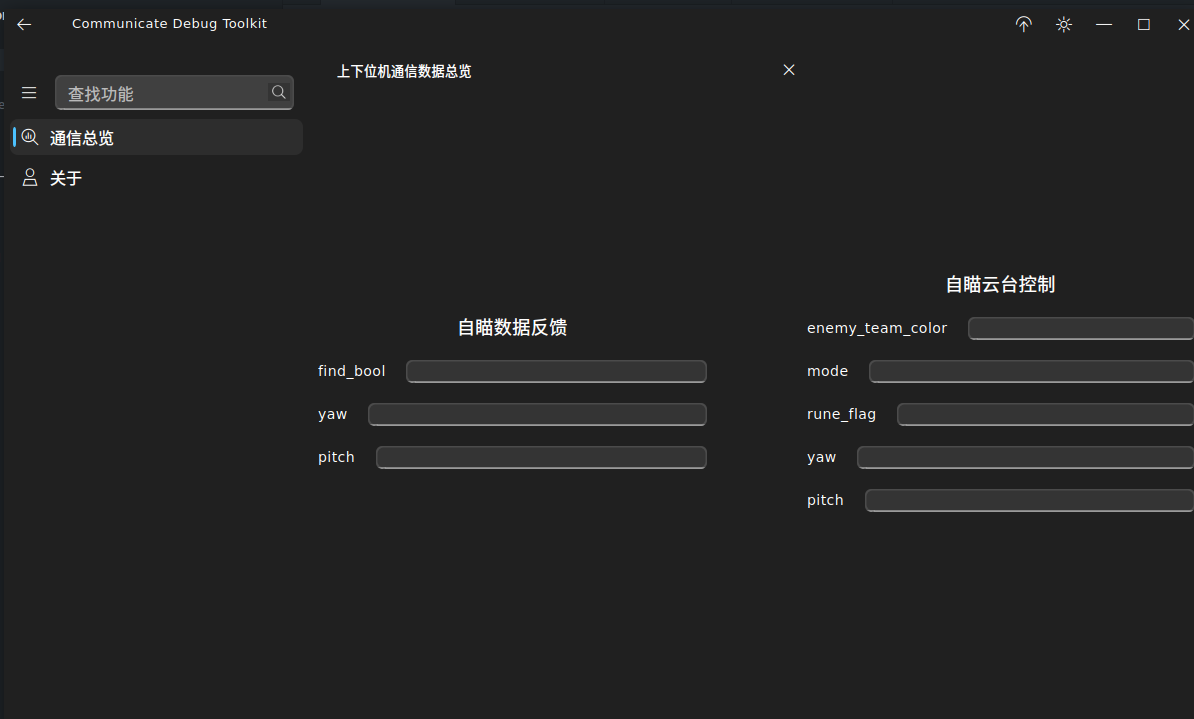
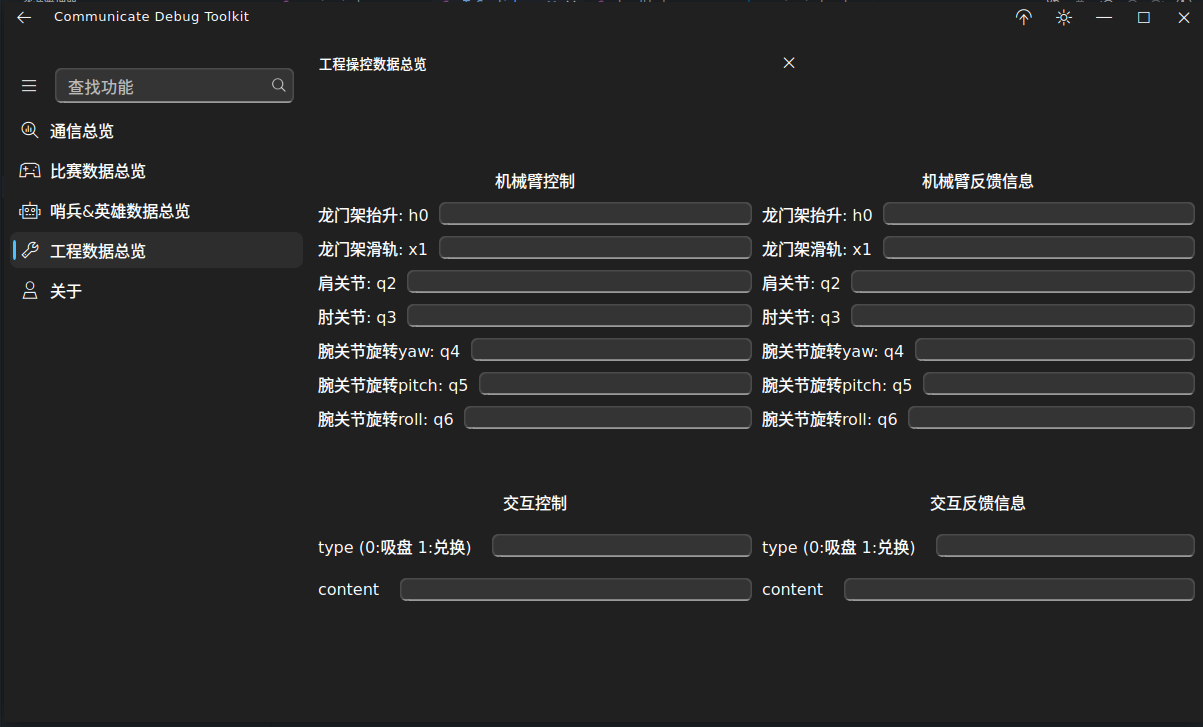
🍻 完成烧饼&英雄前端制作

diff --git a/visualization_tool/Page/T_Sential.cpp b/visualization_tool/Page/T_Sential.cpp
@@ -3,6 +3,9 @@
 
 #include "T_Sential.h"
 #include "health_bar.h"
+#include <ElaText.h>
+#include <QHBoxLayout>
+#include <QVBoxLayout>
 T_Sential::T_Sential(QWidget* parent)
     : ElaWidget(parent)
 {
@@ -11,10 +14,156 @@ T_Sential::T_Sential(QWidget* parent)
     setWindowModality(Qt::ApplicationModal);
     setWindowButtonFlags(ElaAppBarType::CloseButtonHint);
 
+    QFont font;
+    font.setPointSize(12);
+    setFont(font);
     
+    //TODO:　底盘数据
+    ElaText* Chassis_vx_text = new ElaText("底盘x轴速度",this);
+    ElaText* Chassis_vy_text = new ElaText("底盘y轴速度",this);
+    Chassis_vx_text->setFont(font);
+    Chassis_vy_text->setFont(font);
+    Chassis_vx_editor = new ElaLineEdit(this);
+    Chassis_vy_editor = new ElaLineEdit(this);
+
+    QHBoxLayout* Chassis_vx_layout = new QHBoxLayout;
+    QHBoxLayout* Chassis_vy_layout = new QHBoxLayout;
+    QVBoxLayout* Chassis_layout = new QVBoxLayout;
+    Chassis_vx_layout->addWidget(Chassis_vx_text);
+    Chassis_vx_layout->addWidget(Chassis_vx_editor);
+    Chassis_vy_layout->addWidget(Chassis_vy_text);
+    Chassis_vy_layout->addWidget(Chassis_vy_editor);
+    Chassis_layout->addLayout(Chassis_vx_layout);
+    Chassis_layout->addLayout(Chassis_vy_layout);
     
+    //TODO: 交互数据
+    ElaText* Interaction_type_text = new ElaText("交互类型(0:无 1:买活 2:买弹丸)",this); 
+    ElaText* Interaction_content_text = new ElaText("具体内容",this);
+    Interaction_type_text->setFont(font);
+    Interaction_content_text->setFont(font);
+    Interaction_type_editor = new ElaLineEdit(this);
+    Interaction_content_editor = new ElaLineEdit(this);
+
+    QHBoxLayout* Interaction_type_layout = new QHBoxLayout;
+    QHBoxLayout* Interaction_content_layout = new QHBoxLayout;
+    QVBoxLayout* Interaction_layout = new QVBoxLayout;
+    Interaction_type_layout->addWidget(Interaction_type_text);
+    Interaction_type_layout->addWidget(Interaction_type_editor);
+    Interaction_content_layout->addWidget(Interaction_content_text);
+    Interaction_content_layout->addWidget(Interaction_content_editor);
+    Interaction_layout->addLayout(Interaction_type_layout);
+    Interaction_layout->addLayout(Interaction_content_layout);
+
+    //TODO: 模块控制数据
+    ElaText* moudle_ctl_type_text = new ElaText("模块控制类型(0:无 1:小陀螺 2:云台单连发控)",this);
+    ElaText* moudle_ctl_content_text = new ElaText("具体内容",this);
+    moudle_ctl_type_text->setFont(font);
+    moudle_ctl_content_text->setFont(font);
+    moudle_ctl_type_editor = new ElaLineEdit(this);
+    moudle_ctl_content_editor = new ElaLineEdit(this);
+
+    QHBoxLayout* moudle_ctl_type_layout = new QHBoxLayout;
+    QHBoxLayout* moudle_ctl_content_layout = new QHBoxLayout;
+    QVBoxLayout* moudle_ctl_layout = new QVBoxLayout;
+    moudle_ctl_type_layout->addWidget(moudle_ctl_type_text);
+    moudle_ctl_type_layout->addWidget(moudle_ctl_type_editor);
+    moudle_ctl_content_layout->addWidget(moudle_ctl_content_text);
+    moudle_ctl_content_layout->addWidget(moudle_ctl_content_editor);
+    moudle_ctl_layout->addLayout(moudle_ctl_type_layout);
+    moudle_ctl_layout->addLayout(moudle_ctl_content_layout);
+
+    //TODO: 指令数据
+    ElaText* command_target_x_text = new ElaText("目标位置x",this);
+    ElaText* command_target_y_text = new ElaText("目标位置y",this);
+    ElaText* command_keyboard_text = new ElaText("键盘指令",this);
+    ElaText* command_robot_id_text = new ElaText("机器人ID",this);
+    command_target_x_text->setFont(font);
+    command_target_y_text->setFont(font);
+    command_keyboard_text->setFont(font);
+    command_robot_id_text->setFont(font);
+    command_target_x_editor = new ElaLineEdit(this);
+    command_target_y_editor = new ElaLineEdit(this);
+    command_keyboard_editor = new ElaLineEdit(this);
+    command_robot_id_editor = new ElaLineEdit(this);
+
+    QHBoxLayout* command_target_x_layout = new QHBoxLayout;
+    QHBoxLayout* command_target_y_layout = new QHBoxLayout;
+    QHBoxLayout* command_keyboard_layout = new QHBoxLayout;
+    QHBoxLayout* command_robot_id_layout = new QHBoxLayout;
+    QVBoxLayout* command_layout = new QVBoxLayout;
+    command_target_x_layout->addWidget(command_target_x_text);
+    command_target_x_layout->addWidget(command_target_x_editor);
+    command_target_y_layout->addWidget(command_target_y_text);
+    command_target_y_layout->addWidget(command_target_y_editor);
+    command_keyboard_layout->addWidget(command_keyboard_text);
+    command_keyboard_layout->addWidget(command_keyboard_editor);
+    command_robot_id_layout->addWidget(command_robot_id_text);
+    command_robot_id_layout->addWidget(command_robot_id_editor);
+    command_layout->addLayout(command_target_x_layout);
+    command_layout->addLayout(command_target_y_layout);
+    command_layout->addLayout(command_keyboard_layout);
+    command_layout->addLayout(command_robot_id_layout);
+
+    //TODO: 受击打数据
+    ElaText* hitted_text = new ElaText("受击打",this);
+    hitted_text->setFont(font);
+    hitted_editor = new ElaLineEdit(this);
+
+    QHBoxLayout* hitted_layout = new QHBoxLayout;
+    hitted_layout->addWidget(hitted_text);
+    hitted_layout->addWidget(hitted_editor);
 
 
+    //TODO: 发射数据
+    ElaText* shoot_status_17_text = new ElaText("17mm弹丸允许发弹量",this);
+    ElaText* shoot_status_42_text = new ElaText("42mm弹丸允许发弹量",this);
+    ElaText* shoot_status_heat_text = new ElaText("发射机构热量",this);
+    ElaText* shoot_frequency_text = new ElaText("弹丸射速(单位:Hz)",this);
+    shoot_status_17_text->setFont(font);
+    shoot_status_42_text->setFont(font);
+    shoot_status_heat_text->setFont(font);
+    shoot_frequency_text->setFont(font);
+    shoot_status_17_editor = new ElaLineEdit(this);
+    shoot_status_42_editor = new ElaLineEdit(this);
+    shoot_status_heat_editor = new ElaLineEdit(this);
+    shoot_frequency_editor = new ElaLineEdit(this);
+
+    QHBoxLayout* shoot_status_17_layout = new QHBoxLayout;
+    QHBoxLayout* shoot_status_42_layout = new QHBoxLayout;
+    QHBoxLayout* shoot_status_heat_layout = new QHBoxLayout;
+    QHBoxLayout* shoot_frequency_layout = new QHBoxLayout;
+    QVBoxLayout* shoot_layout = new QVBoxLayout;
+    shoot_status_17_layout->addWidget(shoot_status_17_text);
+    shoot_status_17_layout->addWidget(shoot_status_17_editor);
+    shoot_status_42_layout->addWidget(shoot_status_42_text);
+    shoot_status_42_layout->addWidget(shoot_status_42_editor);
+    shoot_status_heat_layout->addWidget(shoot_status_heat_text);
+    shoot_status_heat_layout->addWidget(shoot_status_heat_editor);
+    shoot_frequency_layout->addWidget(shoot_frequency_text);
+    shoot_frequency_layout->addWidget(shoot_frequency_editor);
+    shoot_layout->addLayout(shoot_status_17_layout);
+    shoot_layout->addLayout(shoot_status_42_layout);
+    shoot_layout->addLayout(shoot_status_heat_layout);
+    shoot_layout->addLayout(shoot_frequency_layout);
+
+
+
+
+    //TODO: 总布局
+    QHBoxLayout* total1_layout = new QHBoxLayout;
+    QHBoxLayout* total2_layout = new QHBoxLayout;
+    QHBoxLayout* total3_layout = new QHBoxLayout;
+    QVBoxLayout* total_layout = new QVBoxLayout;
+    total1_layout->addLayout(Chassis_layout);
+    total1_layout->addLayout(Interaction_layout);
+    total2_layout->addLayout(moudle_ctl_layout);
+    total2_layout->addLayout(command_layout);
+    total3_layout->addLayout(hitted_layout);
+    total3_layout->addLayout(shoot_layout);
+    total_layout->addLayout(total1_layout);
+    total_layout->addLayout(total2_layout);
+    total_layout->addLayout(total3_layout);
+    setLayout(total_layout);
 }
 
 T_Sential::~T_Sential(){

diff --git a/visualization_tool/Page/T_Game_info.cpp b/visualization_tool/Page/T_Game_info.cpp
@@ -85,19 +85,36 @@ T_Game_info::T_Game_info(QWidget* parent)
     Stage_remain_time_editor = new ElaLineEdit(this);
     remaining_gold_coin_editor = new ElaLineEdit(this);
 
+    enemy_color_editor->setReadOnly(true);
+    game_progress_editor->setReadOnly(true);
+    Stage_remain_time_editor->setReadOnly(true);
+    remaining_gold_coin_editor->setReadOnly(true);
+
     r1_robot_position_editor = new ElaLineEdit(this);
+    r1_robot_position_editor->setReadOnly(true);
     r2_robot_position_editor = new ElaLineEdit(this);
+    r2_robot_position_editor->setReadOnly(true);
     r3_robot_position_editor = new ElaLineEdit(this);
+    r3_robot_position_editor->setReadOnly(true);
     r4_robot_position_editor = new ElaLineEdit(this);
+    r4_robot_position_editor->setReadOnly(true);
     r5_robot_position_editor = new ElaLineEdit(this);
+    r5_robot_position_editor->setReadOnly(true);
     r7_robot_position_editor = new ElaLineEdit(this);
+    r7_robot_position_editor->setReadOnly(true);
 
     b1_robot_position_editor = new ElaLineEdit(this);
+    b1_robot_position_editor->setReadOnly(true);
     b2_robot_position_editor = new ElaLineEdit(this);
+    b2_robot_position_editor->setReadOnly(true);
     b3_robot_position_editor = new ElaLineEdit(this);
+    b3_robot_position_editor->setReadOnly(true);
     b4_robot_position_editor = new ElaLineEdit(this);
+    b4_robot_position_editor->setReadOnly(true);
     b5_robot_position_editor = new ElaLineEdit(this);
+    b5_robot_position_editor->setReadOnly(true);
     b7_robot_position_editor = new ElaLineEdit(this);
+    b7_robot_position_editor->setReadOnly(true);
     
 
     //TODO: 红方布局

diff --git a/visualization_tool/Page/T_Sential.h b/visualization_tool/Page/T_Sential.h
@@ -8,6 +8,27 @@ class T_Sential : public ElaWidget
 {
     Q_OBJECT
 public:
+    ElaLineEdit* Chassis_vx_editor;
+    ElaLineEdit* Chassis_vy_editor;
+
+    ElaLineEdit* Interaction_type_editor;
+    ElaLineEdit* Interaction_content_editor;
+
+    ElaLineEdit* moudle_ctl_type_editor;
+    ElaLineEdit* moudle_ctl_content_editor;
+
+    ElaLineEdit* command_target_x_editor;
+    ElaLineEdit* command_target_y_editor;
+    ElaLineEdit* command_keyboard_editor;
+    ElaLineEdit* command_robot_id_editor;
+
+    ElaLineEdit* hitted_editor;
+    
+    ElaLineEdit* shoot_status_17_editor;
+    ElaLineEdit* shoot_status_42_editor;
+    ElaLineEdit* shoot_status_heat_editor;
+    ElaLineEdit* shoot_frequency_editor;
+    
     explicit T_Sential(QWidget* parent = nullptr);
     ~T_Sential();
 

diff --git a/README.md b/README.md
@@ -1,4 +1,4 @@
-# Communicate_Toolkit
+# Communicate_Toolkit 
 为Robomaster25赛季模块Communicate_2025上下位机通信设计的基于QT的调试工具，帮助使用者快速勘误与定位问题
 ## 概览
 基于[ElaWidgetTool](https://github.com/Liniyous/ElaWidgetTools)与Qt5制作
@@ -18,10 +18,11 @@
 ### 编译
 
 1. 确保已安装 ROS 2 和 Qt 5。
-2. 克隆此项目：
+2. 克隆此项目与子模块：
 
     ```bash
     git clone https://github.com/SillyBeee/Communicate_Debug_Toolkit.git
+    git submodule update --init --recursive
     ```
 
 3. 编译项目：
@@ -48,14 +49,17 @@
 ```bash
 cp -r ./visualization_tool/Ela_depend/Font  /usr/share/fonts/truetype
 ```
+或打开项目根目录下的```visualization_tool/Ela_depend/Font```文件夹，安装其字体
 
 ## 使用说明
 
 1. 启动程序后，将会显示一个基于 Qt 的 GUI 界面。
-2. 通过订阅 `/shoot_info` 和 `/communicate/autoaim` 话题，实时显示相关信息。
+2. 通过订阅所有Communicate_2025的话题，并实时更新显示相关信息。
 
 
 
 ## 许可证
 
 此项目使用 MIT 许可证。详情请参阅 LICENSE 文件。
+
+##### 如果你在项目使用中遇到了任何疑问或有任何建议，请提出 Issue 或联系作者。
